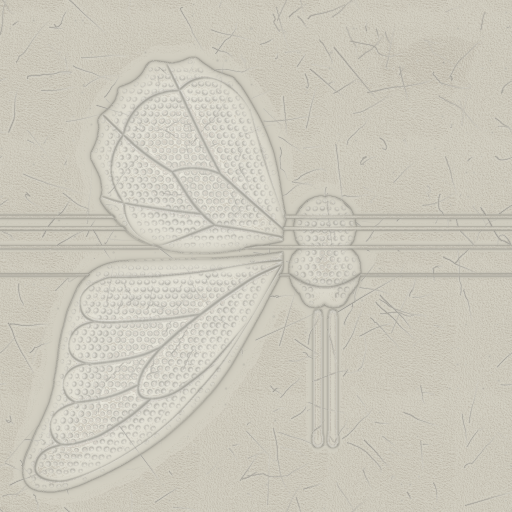
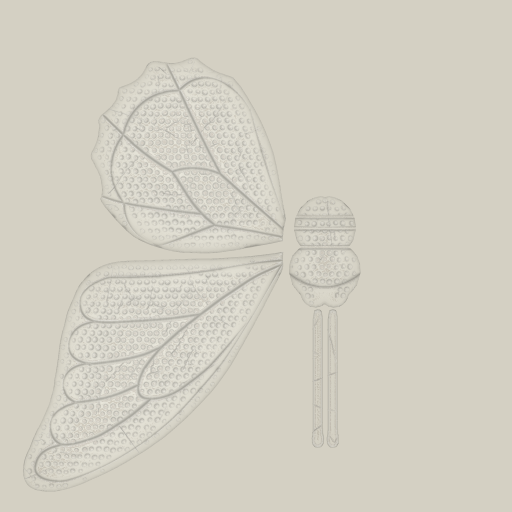
update webgl butterfly lab

diff --git a/static/butterfly-lab/assets/index-DTXyPAsP.css b/static/butterfly-lab/assets/index-DTXyPAsP.css
@@ -1,0 +1,1 @@
+html,body,#root{margin:0;height:100%;width:100%;overflow:hidden}:root{--butterfly-lab-gui-reserve: 380px;--butterfly-lab-phone-w: 400px;--butterfly-lab-phone-h: 700px}@media(max-width:800px){:root{--butterfly-lab-gui-reserve: 0px}}.app{width:100%;height:100%}.app-main{box-sizing:border-box;height:100%;width:100%;display:flex;align-items:center;justify-content:center;padding:24px}.app-main-stage{box-sizing:border-box;width:calc(100vw - 48px);max-width:100%;height:100%;margin:0 auto;padding-right:var(--butterfly-lab-gui-reserve);display:flex;align-items:center;justify-content:center;min-height:0}.app-phone-frame{box-sizing:border-box;aspect-ratio:400 / 700;width:min(100%,calc(.95 * (100dvh - 48px) * (400 / 700)),calc(.95 * (100vh - 48px) * (400 / 700)),calc(100vw - 48px - var(--butterfly-lab-gui-reserve)));height:auto;max-width:100%;border-radius:20px;overflow:hidden;box-shadow:0 0 0 1px #ffffff14,0 12px 40px #00000073;background:#0a0a0c}.app-phone-frame .app-canvas,.app-phone-frame .app-canvas canvas{display:block!important;width:100%!important;height:100%!important}.app-phone-frame>.app-canvas{width:100%;height:100%}.butterfly-lab-stats{position:fixed!important;left:12px!important;top:12px!important;bottom:auto!important;z-index:10040}.preset-modal-backdrop{position:fixed;top:0;right:0;bottom:0;left:0;z-index:10050;display:flex;align-items:center;justify-content:center;padding:24px;background:#0000008c;-webkit-backdrop-filter:blur(4px);backdrop-filter:blur(4px)}.preset-modal{width:min(420px,100%);box-sizing:border-box;padding:20px 22px 18px;border-radius:10px;border:1px solid rgba(255,255,255,.12);background:#1e1e24;box-shadow:0 16px 48px #0000008c;color:#e8e8ee;font-family:system-ui,sans-serif;font-size:14px}.preset-modal-title{margin:0 0 8px;font-size:17px;font-weight:600}.preset-modal-hint{margin:0 0 16px;font-size:12px;line-height:1.45;color:#9a9aab}.preset-modal-label{display:block;margin-bottom:6px;font-size:12px;color:#c8c8d4}.preset-modal-input{box-sizing:border-box;width:100%;padding:8px 10px;border-radius:6px;border:1px solid #4a4a5a;background:#121218;color:#f0f0f5;font-size:14px;outline:none}.preset-modal-input:focus{border-color:#0af;box-shadow:0 0 0 2px #0af3}.preset-modal-error{margin:8px 0 0;font-size:12px;color:#f48fb1}.preset-modal-actions{display:flex;justify-content:flex-end;gap:10px;margin-top:18px}.preset-modal-btn{padding:8px 16px;border-radius:6px;font-size:13px;font-weight:500;cursor:pointer;border:1px solid transparent}.preset-modal-btn-secondary{background:transparent;border-color:#5a5a6a;color:#e0e0e8}.preset-modal-btn-secondary:hover{background:#ffffff0f}.preset-modal-btn-primary{background:#1976d2;border-color:#1e88e5;color:#fff}.preset-modal-btn-primary:hover{background:#1e88e5}:root{--profiler-bg: #1e1e24f5;--profiler-header-bg: #2a2a33aa;--profiler-header: #2a2a33;--profiler-border: #4a4a5a;--text-primary: #e0e0e0;--text-secondary: #9a9aab;--accent-color: #00aaff;--color-green: #4caf50;--color-yellow: #ffc107;--color-red: #f44336;--color-fps: rgb(63, 81, 181);--color-call: rgba(255, 185, 34, 1);--font-family: "Segoe UI", Tahoma, Geneva, Verdana, sans-serif;--font-mono: "Roboto Mono", "Courier New", Courier, monospace}.lil-gui{font-family:var(--font-mono);--background-color: rgba(30, 30, 36, .92);--text-color: var(--text-primary);--title-background-color: var(--profiler-header-bg);--title-text-color: var(--text-primary);--widget-color: #2a2a33;--hover-color: rgba(255, 255, 255, .08);--focus-color: rgba(0, 170, 255, .35);--number-color: var(--accent-color);--string-color: var(--color-green);--font-size: 11px;--input-font-size: 10px;--font-family: var(--font-mono);--font-family-mono: var(--font-mono);--widget-height: 21px;--name-width: 46%;--padding: 3px;--spacing: 3px}.lil-gui,.lil-gui *{text-transform:initial;line-height:normal;box-sizing:border-box;-webkit-font-smoothing:antialiased;-moz-osx-font-smoothing:grayscale}.lil-gui.root{position:fixed;top:24px;right:16px;left:auto;font-family:var(--font-mono);font-size:11px;letter-spacing:.3px;user-select:none;-webkit-user-select:none;border:1px solid #4a4a5a54;border-radius:8px;-webkit-backdrop-filter:blur(8px);backdrop-filter:blur(8px);box-shadow:0 6px 24px #00000080;z-index:9999;max-height:calc(100vh - 100px);overflow:hidden;display:flex;flex-direction:column}.lil-gui.root>.children{flex:1;min-height:0;max-height:calc(100vh - 140px);overflow-y:auto;overflow-x:hidden;padding:2px 6px 6px}.lil-gui.root::-webkit-scrollbar,.lil-gui.root>.children::-webkit-scrollbar{width:6px}.lil-gui.root::-webkit-scrollbar-track,.lil-gui.root>.children::-webkit-scrollbar-track{background:transparent}.lil-gui.root::-webkit-scrollbar-thumb,.lil-gui.root>.children::-webkit-scrollbar-thumb{background:#ffffff26;border-radius:3px}.lil-gui.root::-webkit-scrollbar-thumb:hover,.lil-gui.root>.children::-webkit-scrollbar-thumb:hover{background:#ffffff40}.lil-gui>.title{font-family:var(--font-mono);font-weight:600;font-size:12px;letter-spacing:.02em;border-bottom:1px solid rgba(74,74,90,.35)}.lil-gui .name{color:var(--text-secondary)}.lil-gui .controller{border-bottom:1px solid rgba(74,74,90,.2);transition:background-color .15s;min-height:21px;align-items:center;gap:8px;padding:1px 2px}.lil-gui .controller:last-child{border-bottom:none}.lil-gui .controller:hover{background-color:#ffffff0a}.lil-gui .widget{display:flex;align-items:center;justify-content:flex-end;gap:6px;width:100%}.lil-gui .widget input,.lil-gui .widget select,.lil-gui .widget button{background-color:#1e1e24c2;border:1px solid var(--profiler-border);color:var(--text-primary);border-radius:4px;padding:4px 4px 2px;height:21px;line-height:1;font-family:var(--font-mono);font-size:10px;box-sizing:border-box}.lil-gui .widget select{padding:3px 2px 2px;font-size:11px}.lil-gui .widget input:focus,.lil-gui .widget select:focus,.lil-gui .widget button:focus{outline:none;border-color:var(--accent-color)}.lil-gui .widget input[type=number]{cursor:ns-resize}.lil-gui .widget input[type=number]::-webkit-outer-spin-button,.lil-gui .widget input[type=number]::-webkit-inner-spin-button{-webkit-appearance:none;margin:0}.lil-gui .widget input[type=number]{-moz-appearance:textfield}.lil-gui .widget input[type=color]{padding:2px;height:auto;min-height:21px}.lil-gui .widget input[type=checkbox]{width:12px;height:12px;padding:0;flex-shrink:0}.lil-gui .widget button{cursor:pointer;transition:background-color .2s}.lil-gui .widget button:hover{background-color:var(--profiler-header)}.lil-gui .widget input[type=range]{-webkit-appearance:none;-moz-appearance:none;appearance:none;width:100%;height:16px;background:var(--profiler-header);border-radius:5px;border:1px solid var(--profiler-border);outline:none;padding:8px 0 0;cursor:pointer}.lil-gui .widget input[type=range]::-webkit-slider-thumb{-webkit-appearance:none;-moz-appearance:none;appearance:none;width:18px;height:18px;background:#1e1e24f2;border:1px solid var(--accent-color);border-radius:3px;cursor:pointer;margin-top:-8px}.lil-gui .widget input[type=range]::-moz-range-thumb{width:18px;height:18px;background:#1e1e24f2;border:2px solid var(--accent-color);border-radius:3px;cursor:pointer}.lil-gui .widget input[type=range]::-moz-range-track{width:100%;height:16px;background:var(--profiler-header);border-radius:5px;border:1px solid var(--profiler-border)}.lil-gui .lil-gui{margin-left:6px;border-left:1px solid rgba(74,74,90,.25);margin-top:2px;margin-bottom:2px}.lil-gui .lil-gui>.title{padding:2px 8px;min-height:20px;display:flex;align-items:center}

diff --git a/static/butterfly-lab/index.html b/static/butterfly-lab/index.html
@@ -4,8 +4,8 @@
     <meta charset="UTF-8" />
     <meta name="viewport" content="width=device-width, initial-scale=1.0" />
     <title>Butterfly lab</title>
-    <script type="module" crossorigin src="/butterfly-lab/assets/index-CBtAkMmQ.js"></script>
-    <link rel="stylesheet" crossorigin href="/butterfly-lab/assets/index-DBMqGQJi.css">
+    <script type="module" crossorigin src="/butterfly-lab/assets/index-1kgWhoxl.js"></script>
+    <link rel="stylesheet" crossorigin href="/butterfly-lab/assets/index-DTXyPAsP.css">
   </head>
   <body>
     <div id="root"></div>
